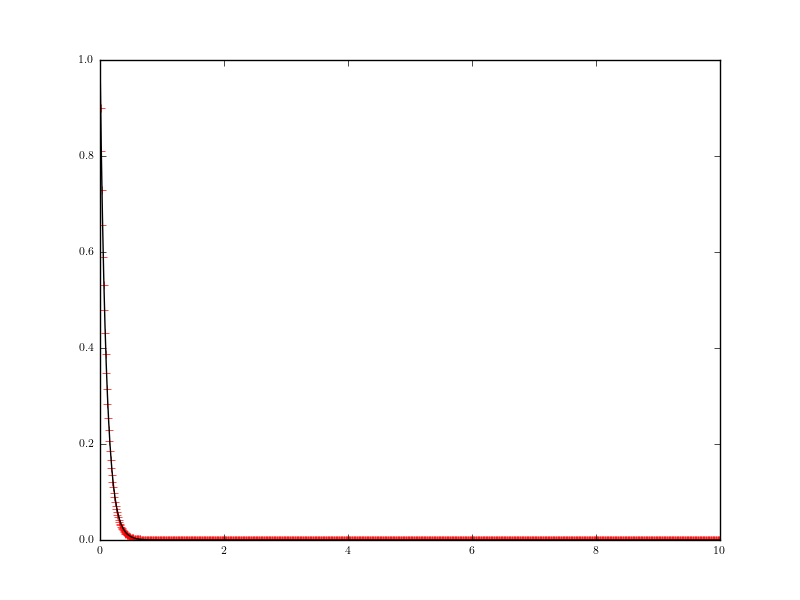
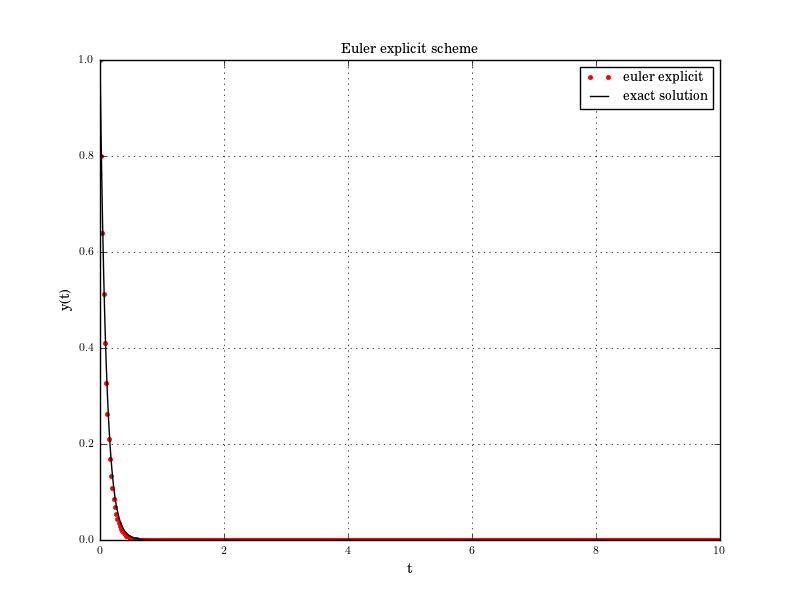
euler explicit scheme for y' = -10y with y(0) = 1

diff --git a/Scripts/Python/Euler/eulerexplicit.py b/Scripts/Python/Euler/eulerexplicit.py
@@ -23,10 +23,10 @@ matplotlib.rcParams["text.usetex"] = True
 matplotlib.use("Agg")
 
 t_ = 10                     # time period
-dt = 0.01                   # time step
+dt = 0.02                   # time step
 N = int(t_/dt)              # number of steps
 t = np.zeros(N+1)           # time step vector
-y = np.zeros(N+1)           # solution vector
+y = np.zeros(N+1)           # solution vector of euler explicit
 t[0] = 0
 y[0] = 1
 
@@ -34,9 +34,12 @@ for k in range(0, N):
     t[k+1] = t[k] + dt
     y[k+1] = y[k] + dt * (-10*y[k])
 
-exact = np.exp(-10*t)
+exact = np.exp(-10*t)       # exact solution
 
 figure, ax = plt.subplots()
-ax.plot(t, y, 'r+')
-ax.plot(t, exact, 'k')
+ax.plot(t, y, "r.", label=r"euler explicit")
+ax.plot(t, exact, "k-", label=r"exact solution")
+ax.set(xlabel=r"t", ylabel=r"y(t)")
+ax.set_title(r"Euler explicit scheme")
+ax.grid(True); ax.legend()
 plt.savefig('eulerexplicit.png')
